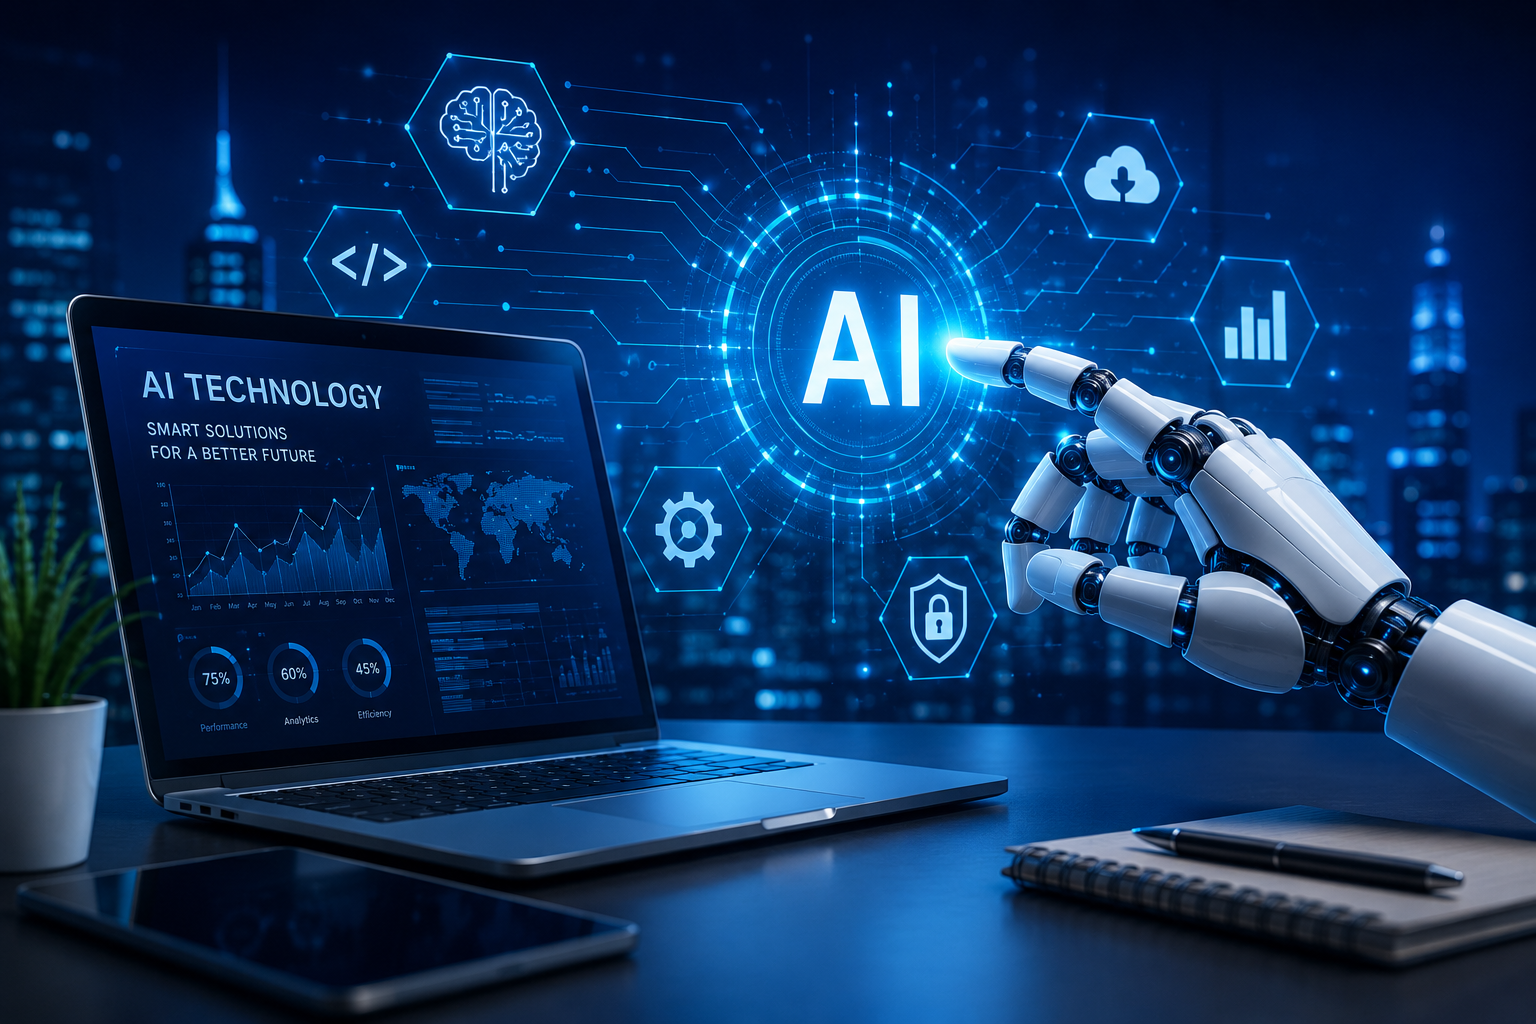
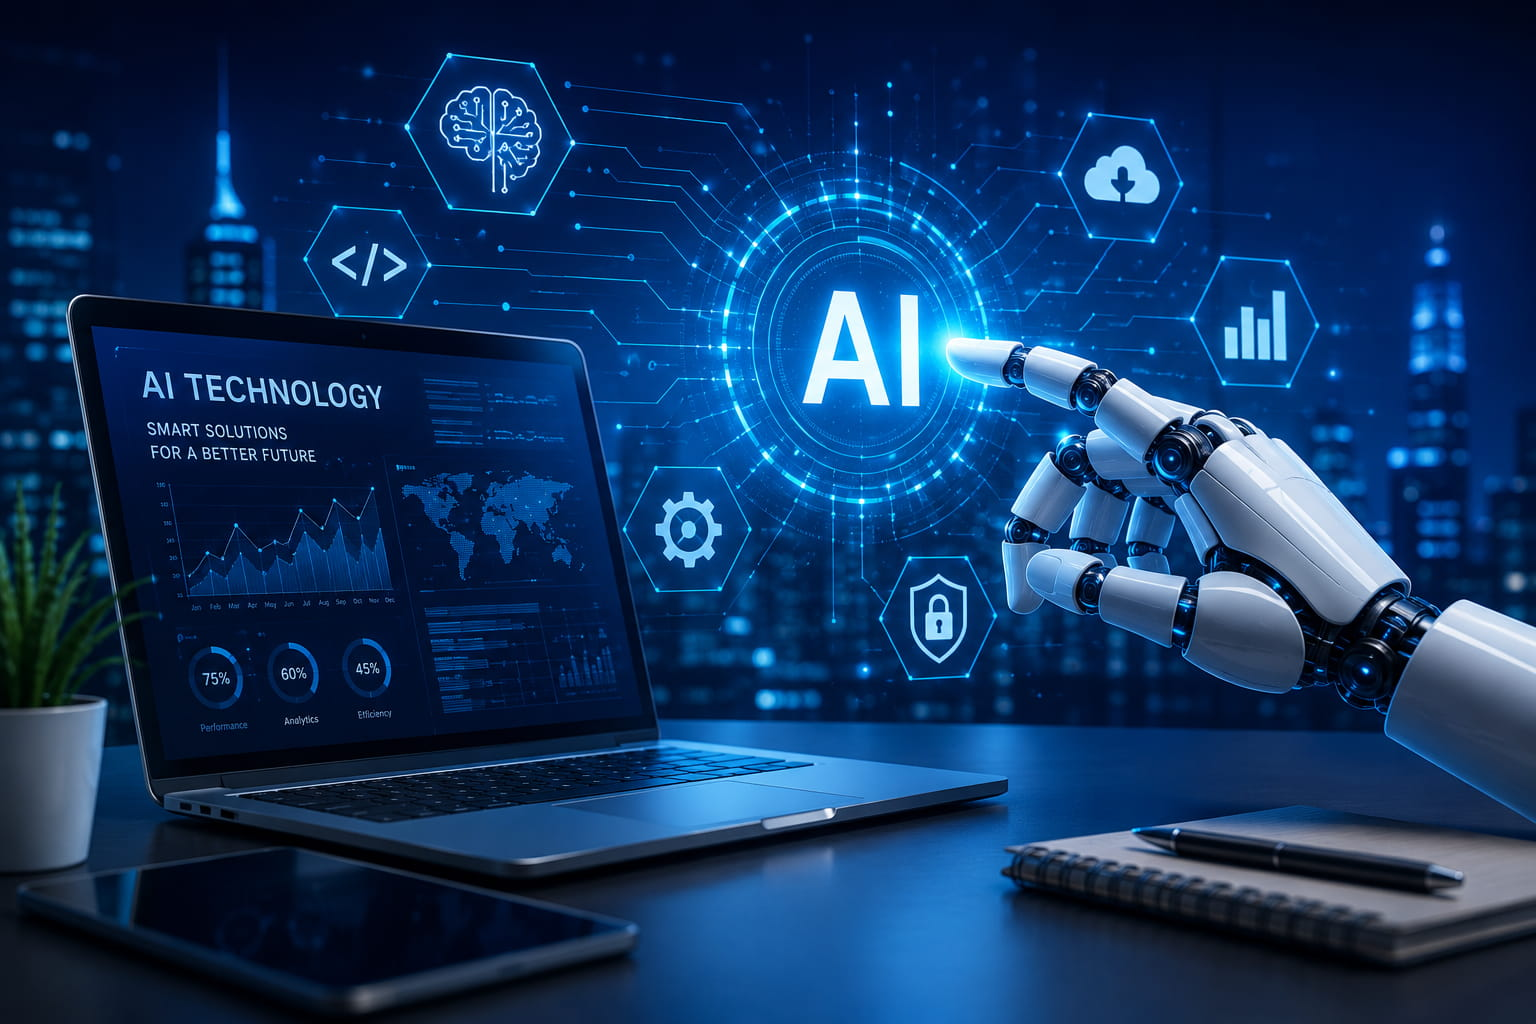
images-compression

Changed region(s): [[0.2812, 0.0938, 0.3438, 0.1562], [0.5312, 0.3125, 0.5625, 0.3438]]

diff --git a/src/WhoWeAre.jsx b/src/WhoWeAre.jsx
@@ -11,7 +11,7 @@ import {
   Avatar,
 } from "@mui/material";
 import { styled, keyframes } from "@mui/material/styles";
-import trust from "../src/assets/trust.png";
+import trust from "../src/assets/trust.jpg";
 import GroupsIcon from "@mui/icons-material/Groups";
 import AutoAwesomeIcon from "@mui/icons-material/AutoAwesome";
 import PsychologyIcon from "@mui/icons-material/Psychology";
@@ -19,7 +19,7 @@ import CloudDoneIcon from "@mui/icons-material/CloudDone";
 import SecurityIcon from "@mui/icons-material/Security";
 import RocketLaunchIcon from "@mui/icons-material/RocketLaunch";
 import ArrowForwardIcon from "@mui/icons-material/ArrowForward";
-import AiImage3 from "./assets/AiImage3.png";
+import AiImage3 from "./assets/AiImage3.jpg";
 import AboutImage from "./assets/about-team.jpg";
 import AiImage from "./assets/ai-tech.jpg";
 
@@ -450,7 +450,7 @@ const WhoWeAre = () => {
               md: 560,
               lg: 750,
             },
-            objectFit: "cover",
+            // objectFit: "cover",
             objectPosition: "center",
             borderRadius: "28px",
             boxShadow: "0 24px 70px rgba(16,42,67,0.16)",
@@ -539,25 +539,23 @@ const WhoWeAre = () => {
             sx={{
               position: "relative",
               width: "100%",
+              
               animation: `${floatImage} 4s ease-in-out infinite`,
             }}
           >
-            <Box
-              component="img"
-              src={AiImage3}
-              alt="AI Technology"
-              sx={{
-                width: "150%",
-                height: {
-                  xs: 220,
-                  sm: 280,
-                  md: 550,
-                },
-                // objectFit: "cover",
-                borderRadius: "32px",
-                boxShadow: "0 25px 70px rgba(16,42,67,0.18)",
-              }}
-            />
+           <Box
+  component="img"
+  src={AiImage3}
+  alt="AI Technology"
+  sx={{
+    width: "clamp(100%, 110vw, 130%)",
+    height: "clamp(220px, 45vw, 800px)",
+    objectFit: "cover",
+    borderRadius: "32px",
+    boxShadow: "0 25px 70px rgba(16,42,67,0.18)",
+    display: "block",
+  }}
+/>
             {/* Floating Badge */}
           </Box>
         </Grid>

diff --git a/src/Conversation.jsx b/src/Conversation.jsx
@@ -51,40 +51,34 @@ function Conversation() {
     });
   };
 
-  const handleSubmit = async (e) => {
-    e.preventDefault();
+const handleSubmit = async (e) => {
+  e.preventDefault();
 
-    console.log(formData);
-    
+  console.log(formData);
+
   try {
-  const response = await Api.post(
-     "/conversation/create",
-      formData
-    );
+    const response = await Api.post("/conversation/create", formData);
 
+    console.log("data...", response.data);
 
+    if (response.data.success) {
+      toast.success("Message sent successfully!");
 
-    const data = await response.json();
-    console.log('data...')
-    if (response.ok) {
-      // alert("Conversation submitted successfully!");
-
-    toast.success("Message sent successfully!");
-      // Clear form
       setFormData({
         name: "",
         email: "",
         phoneNumber: "",
         message: "",
       });
-
-      console.log(data);
     } else {
-      alert(data.message || "Something went wrong");
+      alert(response.data.message || "Something went wrong");
     }
- } catch (error) {
+  } catch (error) {
     console.error(error);
-    alert("Server error");
+
+    alert(
+      error.response?.data?.message || "Server error"
+    );
   }
 };
 

diff --git a/src/Api.js b/src/Api.js
@@ -1,13 +1,13 @@
 import axios from "axios";
 
-// const Api = axios.create({
-//   baseURL:"http://localhost:7000/api/v1",
-// });
+const Api = axios.create({
+  baseURL:"http://localhost:7000/api/v1",
+});
 // const Api = axios.create({
 //   baseURL:"http://titanobova-api-v11-env.eba-8w2gz2my.us-east-1.elasticbeanstalk.com/api/v1",
 // });
-const Api = axios.create({
-  baseURL: "https://api.titanobova.in/api/v1",
-});
+// const Api = axios.create({
+//   baseURL: "https://api.titanobova.in/api/v1",
+// });
 
 export default Api;

diff --git a/src/Home.jsx b/src/Home.jsx
@@ -5,10 +5,10 @@ import KeyboardArrowUpIcon from "@mui/icons-material/KeyboardArrowUp";
 import ArrowOutwardIcon from "@mui/icons-material/ArrowOutward";
 
 import Solutions from "./Solutions";
-import Banner from "./assets/Banner.PNG";
-import better from "./assets/better.png";
-import Archi from "./assets/archi.png";
-import Excellence from "./assets/Excellence.png";
+import Banner from "./assets/Banner.jpg";
+import better from "./assets/better.jpg";
+import Archi from "./assets/archi.jpg";
+import Excellence from "./assets/Excellence.jpg";
 
 const faqs = [
   {

diff --git a/src/About.jsx b/src/About.jsx
@@ -2,9 +2,9 @@ import React, { useEffect, useRef, useState } from "react";
 import { Box, Container, Typography, Button } from "@mui/material";
 import { keyframes } from "@mui/system";
 
-import about from "../src/assets/about.png";
-import service from "../src/assets/service.png";
-import team from "../src/assets/team.png";
+import about from "../src/assets/about.jpg";
+import service from "../src/assets/service.jpg";
+import team from "../src/assets/team.jpg";
 
 const fontFamily = "'Outfit', 'Figtree', sans-serif";
 

diff --git a/src/Courses.jsx b/src/Courses.jsx
@@ -8,7 +8,7 @@ import DataObjectIcon from "@mui/icons-material/DataObject";
 import React, { useState } from "react";
 import { Box, Typography, Chip, Avatar, Button } from "@mui/material";
 import { keyframes } from "@mui/system";
-import Course from "./assets/Course.png";
+import Course from "./assets/Course.jpg";
 import banner2 from "./assets/Banner2.jpg";
 import CouponEnrollment from "./Coupon.jsx";
 import CourseCoupon from "./Couponcard.jsx";

diff --git a/src/Nav/Header.jsx b/src/Nav/Header.jsx
@@ -15,7 +15,7 @@ import {
   MenuItem,
 } from "@mui/material";
 import MenuIcon from "@mui/icons-material/Menu";
-import logo from "../assets/logo.png";
+import logo from "../assets/logo.jpg";
 
 const Header = () => {
   const [open, setOpen] = useState(false);

diff --git a/src/Project.jsx b/src/Project.jsx
@@ -1,7 +1,7 @@
 import React, { useState, useEffect, useRef, useCallback } from "react";
 import Services from "./Services";
 import { keyframes } from "@mui/system";
-import projectbanner from "../src/assets/project.png";
+import projectbanner from "../src/assets/project.jpg";
 import { Box, Typography} from "@mui/material";
 import ServiceEnquiry from "./ServiceEnquiry";
 const BLUE = "#1565d8";

diff --git a/src/Services.jsx b/src/Services.jsx
@@ -1,6 +1,6 @@
 import React from "react";
 import { Box, Container, Typography } from "@mui/material";
-import stair from "../src/assets/stairs.png";
+import stair from "../src/assets/stairs.jpg";
 
 const BLUE = "#1565d8";
 const DARK_BLUE = "#003b88";

diff --git a/src/technology.jsx b/src/technology.jsx
@@ -5,7 +5,7 @@ import MemoryIcon from "@mui/icons-material/Memory";
 import CloudIcon from "@mui/icons-material/Cloud";
 import SecurityIcon from "@mui/icons-material/Security";
 import AutoAwesomeIcon from "@mui/icons-material/AutoAwesome";
-import technologybanner from "./assets/technology.png";
+import technologybanner from "./assets/technology.jpg";
 import TechnologyCircleSection from "./technologycircle.jsx";
 
 const technologies = [